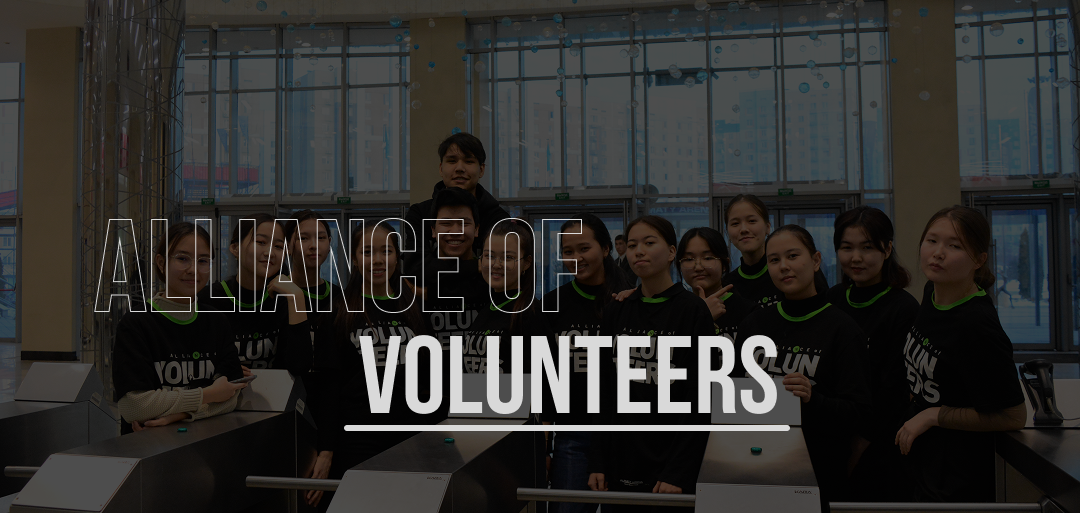
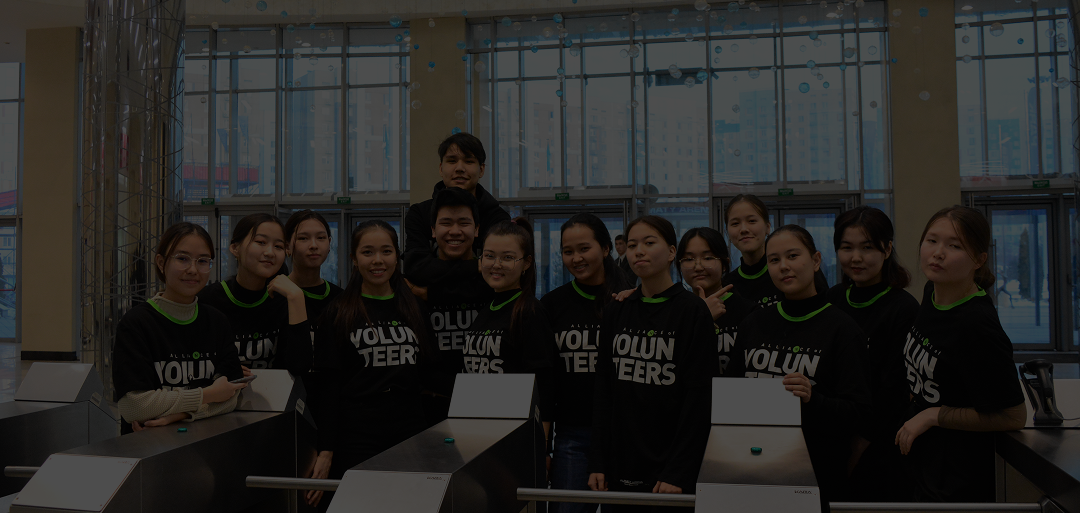
fix: main.tsx заголовок баннера через h1

diff --git a/src/pages/style/main.css b/src/pages/style/main.css
@@ -5,10 +5,53 @@
     background-position: center;
     display: flex;
     flex-direction: column;
+    justify-content: center;
     position: relative;
 }
 .main-body {
     height: 100%;
+}
+.main-banner-title-container {
+    height: 100px;
+    width: 350px;
+    margin-top: 40px;
+    display: flex;
+    flex-direction: column;
+    justify-content: center;
+}
+.main-banner-title-container>h1 {
+    font-family: 'Bebas_bold';
+    font-weight: lighter;
+    margin: 0px;
+    color: rgba(0, 0, 0, 0);
+    -webkit-text-stroke: 0.5px;
+    -webkit-text-stroke-color: #D9D9D9;
+    font-size: 38pt;
+    margin-left: 40px;
+    display: inline-block;
+}
+.main-banner-title-container>div>h1 {
+    font-family: 'Bebas_bold';
+    font-weight: lighter;
+    margin: 0px;
+    color: #D9D9D9;
+    font-size: 38pt;
+    display: inline-block;
+}
+.main-banner-title-container>div {
+    display: flex;
+    flex-direction: column;
+    width: 200px;
+    align-items: center;
+    margin-left: 135px;
+}
+.main-banner-title-container>div>div {
+    background-color: #D9D9D9;
+    width: 100%;
+    height: 5px;
+    border-radius: 10px;
+    position: relative;
+    bottom: 5px;
 }
 .main-background-invite-container {
     width: 190px;
@@ -239,7 +282,7 @@
 
 .main-about-container>p {
     font-family: 'OpenSans_light';
-    text-shadow: 0px 3px 3px rgba(128, 128, 128, 0.726);
+    text-shadow: 0px 0px 3px rgba(255, 255, 255, 0.404);
 }
 .main-about-container>p>span {
     font-family: 'Bebas_bold';
@@ -441,6 +484,7 @@ html {
     border: solid 1px #1B1B1B;
     border-radius: 5px;
     margin-bottom: 20px;
+    font-family: 'OpenSans_light';
 }
 .main-org-mail-container>textarea {
     height: 130px;
